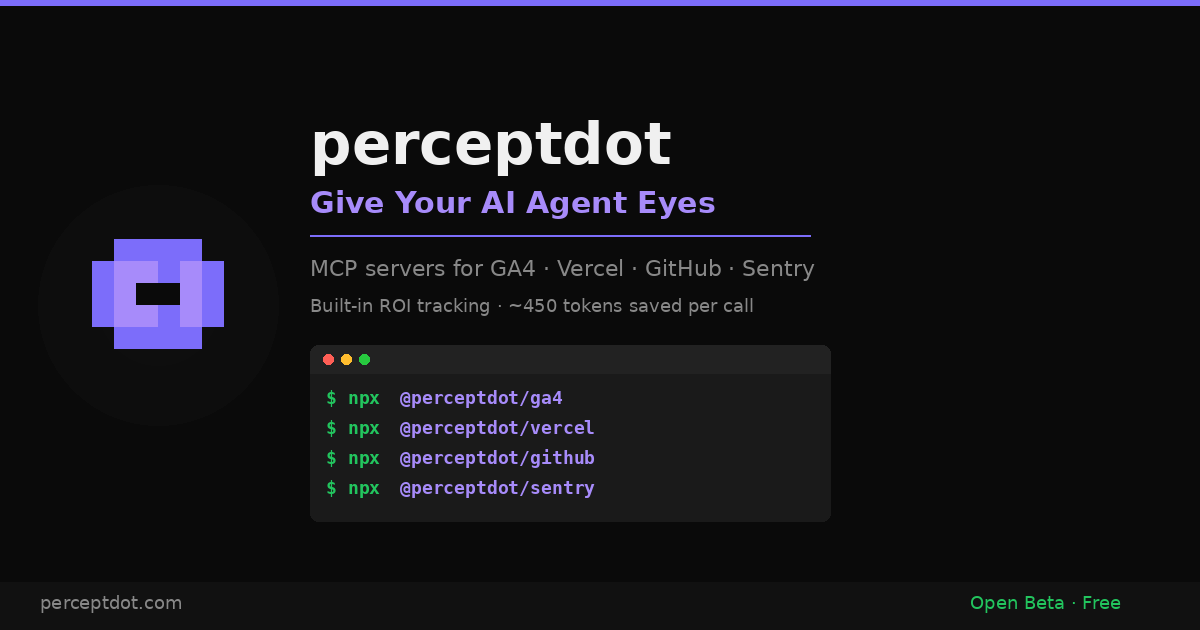
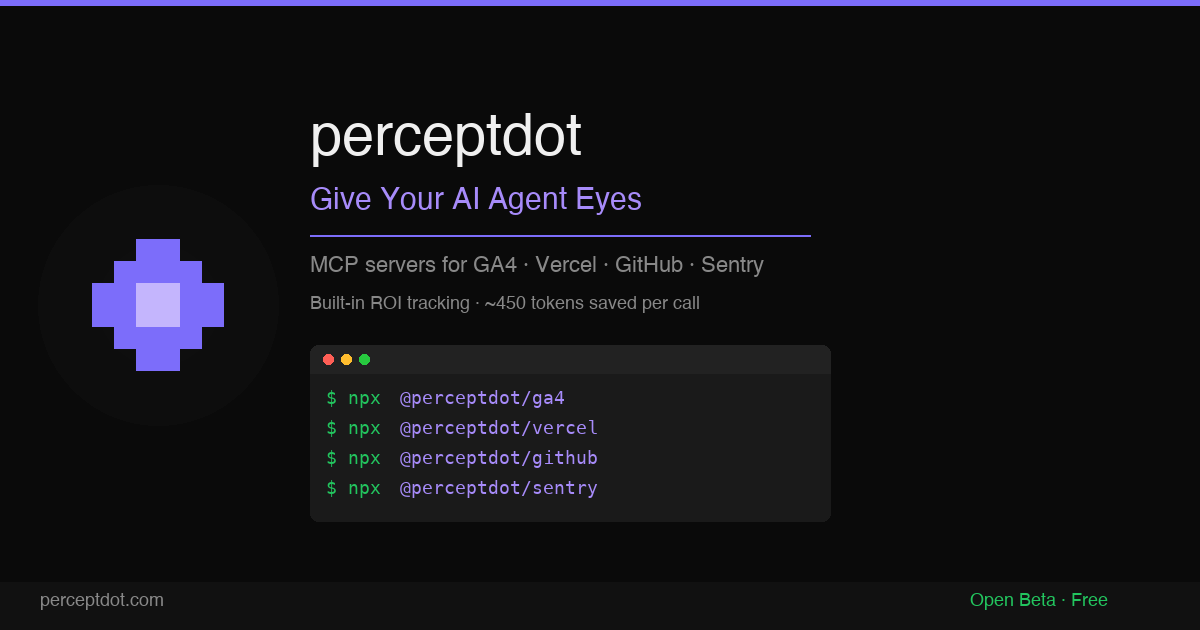
WP [03-23 00:03] main —  2 files changed, 21 insertions(+), 13 deletions(-)

diff --git a/scripts/generate_og_image.py b/scripts/generate_og_image.py
@@ -16,19 +16,19 @@ DARK2 = (26, 26, 26)      # #1a1a1a
 img = Image.new("RGB", (W, H), BG)
 draw = ImageDraw.Draw(img)
 
-# --- Site header logo (matches nav SVG exactly) ---
-# 0=empty, 1=#3d3566(dark), 2=#7c6dfa(main), 3=#c4b5fd(light)
+# --- Site header logo: diamond shape with glow (dark border tiles = invisible) ---
+# 0=empty, 1=empty(dark blends with bg), 2=#7c6dfa(main), 3=#c4b5fd(light)
 eye_map = [
-    [0,0,1,1,1,1,0,0],
-    [0,1,1,2,2,1,1,0],
-    [1,1,2,2,2,2,1,1],
-    [1,2,2,3,3,2,2,1],
-    [1,2,2,3,3,2,2,1],
-    [1,1,2,2,2,2,1,1],
-    [0,1,1,2,2,1,1,0],
-    [0,0,1,1,1,1,0,0],
+    [0,0,0,0,0,0,0,0],
+    [0,0,0,2,2,0,0,0],
+    [0,0,2,2,2,2,0,0],
+    [0,2,2,3,3,2,2,0],
+    [0,2,2,3,3,2,2,0],
+    [0,0,2,2,2,2,0,0],
+    [0,0,0,2,2,0,0,0],
+    [0,0,0,0,0,0,0,0],
 ]
-colors = {0: None, 1: (61,53,102), 2: (124,109,250), 3: (196,181,253)}
+colors = {0: None, 1: None, 2: (124,109,250), 3: (196,181,253)}
 
 # Large eye: each pixel = 22px, positioned center-left
 eye_px = 22
@@ -66,9 +66,14 @@ for row_i, row in enumerate(eye_map):
 # --- Fonts ---
 def load_font(size, bold=False):
     paths = [
+        # macOS
+        "/System/Library/Fonts/Helvetica.ttc",
+        "/Library/Fonts/Arial Bold.ttf" if bold else "/Library/Fonts/Arial.ttf",
+        "/System/Library/Fonts/SFNSDisplay.ttf",
+        "/System/Library/Fonts/SFNS.ttf",
+        # Linux fallback
         "/usr/share/fonts/truetype/dejavu/DejaVuSans-Bold.ttf" if bold else "/usr/share/fonts/truetype/dejavu/DejaVuSans.ttf",
         "/usr/share/fonts/truetype/liberation/LiberationSans-Bold.ttf" if bold else "/usr/share/fonts/truetype/liberation/LiberationSans-Regular.ttf",
-        "/usr/share/fonts/truetype/noto/NotoSans-Bold.ttf" if bold else "/usr/share/fonts/truetype/noto/NotoSans-Regular.ttf",
     ]
     for p in paths:
         if os.path.exists(p):
@@ -77,8 +82,11 @@ def load_font(size, bold=False):
 
 def load_mono_font(size):
     paths = [
+        # macOS
+        "/System/Library/Fonts/Menlo.ttc",
+        "/Library/Fonts/Courier New.ttf",
+        # Linux fallback
         "/usr/share/fonts/truetype/dejavu/DejaVuSansMono-Bold.ttf",
-        "/usr/share/fonts/truetype/dejavu/DejaVuSansMono.ttf",
         "/usr/share/fonts/truetype/liberation/LiberationMono-Regular.ttf",
     ]
     for p in paths:
